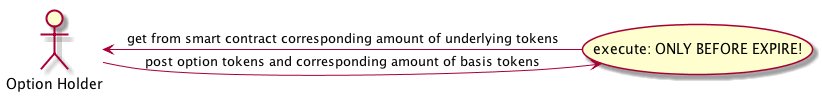
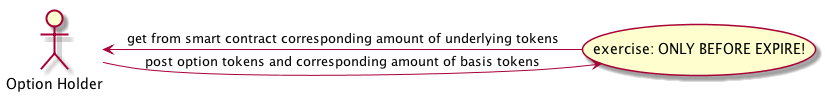
some docs changes

diff --git a/README.md b/README.md
@@ -4,6 +4,7 @@
 
 Currently it seems that there is no suitable analog for "off-chain" option contracts in Ethereum blockchain, although, due to numbers of tokens and market volatility, there are much requirements for them. Here is an attempt to implement one. General information about option contracts one can read in Wikipedia [Option (finance)](https://en.wikipedia.org/wiki/Option_(finance)) article. Below there are some specific things about implementation, based on Ethereum smart contracts.
 
+
 ## Contracts
 
 *Option Contract*. Gives its owner a right to get specified underlying (ERC20) tokens in exchange for basis ERC20 tokens during the period before expiration at the specified price (strike price). The transaction, which uses this right is called "exercise"
@@ -14,19 +15,32 @@ Currently it seems that there is no suitable analog for "off-chain" option contr
 
 1. *Option House*: owner the generating contracts, defines the fee policy.
 
-2. *Option "Line" Creator*: creates the “meta” option contract, which specifies ERC20 token pair (underlying and basis), strike price  and expiration date. As compensation she receives part (e.g. 15/16) of fee paid by *Option Writer* (s. below).
+1. *Option "Line" Creator*: creates the “meta” option contract, which specifies ERC20 token pair (underlying and basis), strike price  and expiration date.
 
-3. *Option Writer*. Deposits the  "underlying" ERC20-compatible tokens with minimum amount specified by by Option Line. in exchange she gets ERC20-compatible option contract  as well  as ERC20-compatible “anti-option” contract (s. later). For this transaction *Option Writer* pays fee.
+1. *Option Writer*. Deposits the  "underlying" ERC20-compatible tokens with minimum amount specified by by Option Line. in exchange she gets ERC20-compatible option contract  as well  as ERC20-compatible “anti-option” contract (s. later). For this transaction *Option Writer* pays fee.
 
-4. *Option Buyer*. Buys *Option Contracts* e.g. on exchanges (the *Option Contracts* are fully ERC20-compatible), via 0x protocol etc.
+1. *Option Buyer*. Buys *Option Contracts* e.g. on exchanges (the *Option Contracts* are fully ERC20-compatible), via 0x protocol etc.
 
-5. *Anti-Option Buyer*. As *Option Writer* side of contracts is tokenized, one can sell / buy the *Option Writer* right to withdraw the deposit after expiration time too.
+1. *Anti-Option Buyer*. As *Option Writer* side of contracts is tokenized, one can sell / buy the *Option Writer* right to withdraw the deposit after expiration time too.
+
+## Use Cases
+1. *Option writing*
+Described above:![Option Writing](docs/dias/write.png)
+
+1. *Option Exercise:*
+Owner of *option contract* can *exercise option contract* **before** *expiration time*. To exercise the owner
+should supply corresponding amount of basis tokens : ![Option Writing](docs/dias/exec.png)
+1. *Withdraw:*
+Owner of *anti-option* contract can withdraw corresponding amount of underlying tokens and corresponding amount of exercised basis tokens **after** *expiration time*![Option Writing](docs/dias/withdraw.png)
+1. *Annihilate:*
+The same amount of *option* and *anti-option* contracts can be "annihilated" **before** the *expiration time*. In this case the owner of the *annihilated* contracts gets the corresponding (as in case of *withdraw*) amount of the underlying and basis tokens![Option Writing](docs/dias/annihilate.png)
+
 
 ## Example 1
 
 Ann creates "meta" option contract with the underlying WETH (wrapped Ethereum, to make it ERC20-compatible) and basis DAI, with the strike price 3000 and expiration date 31.12.2018 (current price at the time of writing is about  900 DAI per WETH).
 
-Bob "writes" 10 option contracts. That is he deposits 10 WETH and get 10 Option (OPT_WETH_DAI_2018_12_31) and 10 Anti-Option contracts (A_OPT_WETH_DAI_2018_12_31).  At this point the fee are taken, 0.016 per contract, that is 0.16 ETH. 0.15 ETH went to Ann, as *Option Line Creator* and 0.01 ETH to *Option House* (preliminary split fee taker split ratio). Note in the tables below the fees are not considered!
+Bob "writes" 10 option contracts. That is he deposits 10 WETH and get 10 Option (OPT_WETH_DAI_2018_12_31) and 10 Anti-Option contracts (A_OPT_WETH_DAI_2018_12_31).  At this point the fee are taken, 0.016 per contract, that is 0.16 ETH. 0.15 ETH went to Ann, as *Option Line Creator* and 0.01 ETH to *Option House* (preliminary split fee taker split ratio). Note in the tables below the fees are not Mconsidered!
 
 <table>
   <tr>
